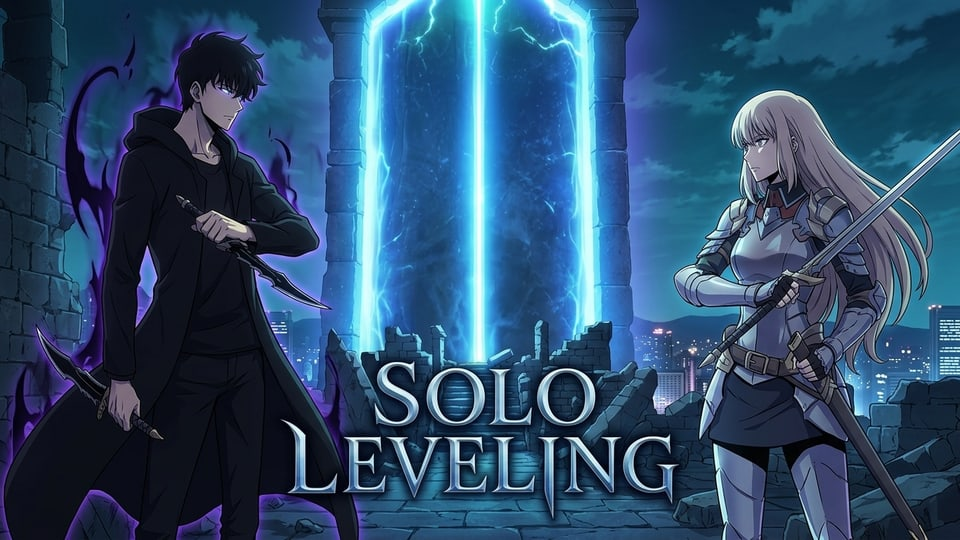
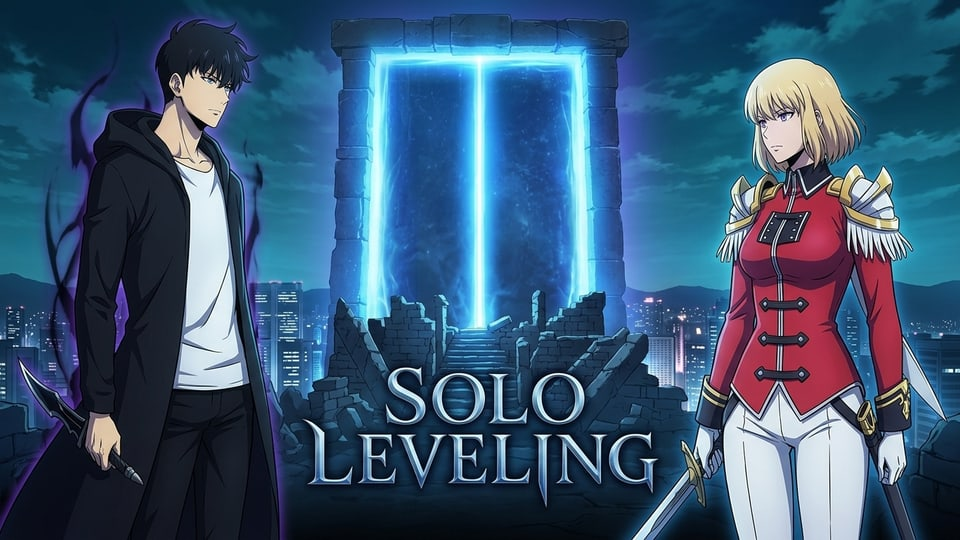
Gurren Lagann: Viral con su aspecto real; Solo Leveling: tarjeta a partir de los diseños oficiales
herramientas/referencias/<id>--<Nombre>.png adjunta el aspecto oficial de un personaje.

diff --git a/data/catalogo-auto.js b/data/catalogo-auto.js
@@ -1518,4 +1518,4 @@
   window.CATALOGO.forEach(function (s) { ya[s.id] = true; });
   auto.forEach(function (s) { if (!ya[s.id]) window.CATALOGO.push(s); });
 })();
-window.VERSION_IMAGENES = "mwbbn79u";
+window.VERSION_IMAGENES = "mwbbulqs";
